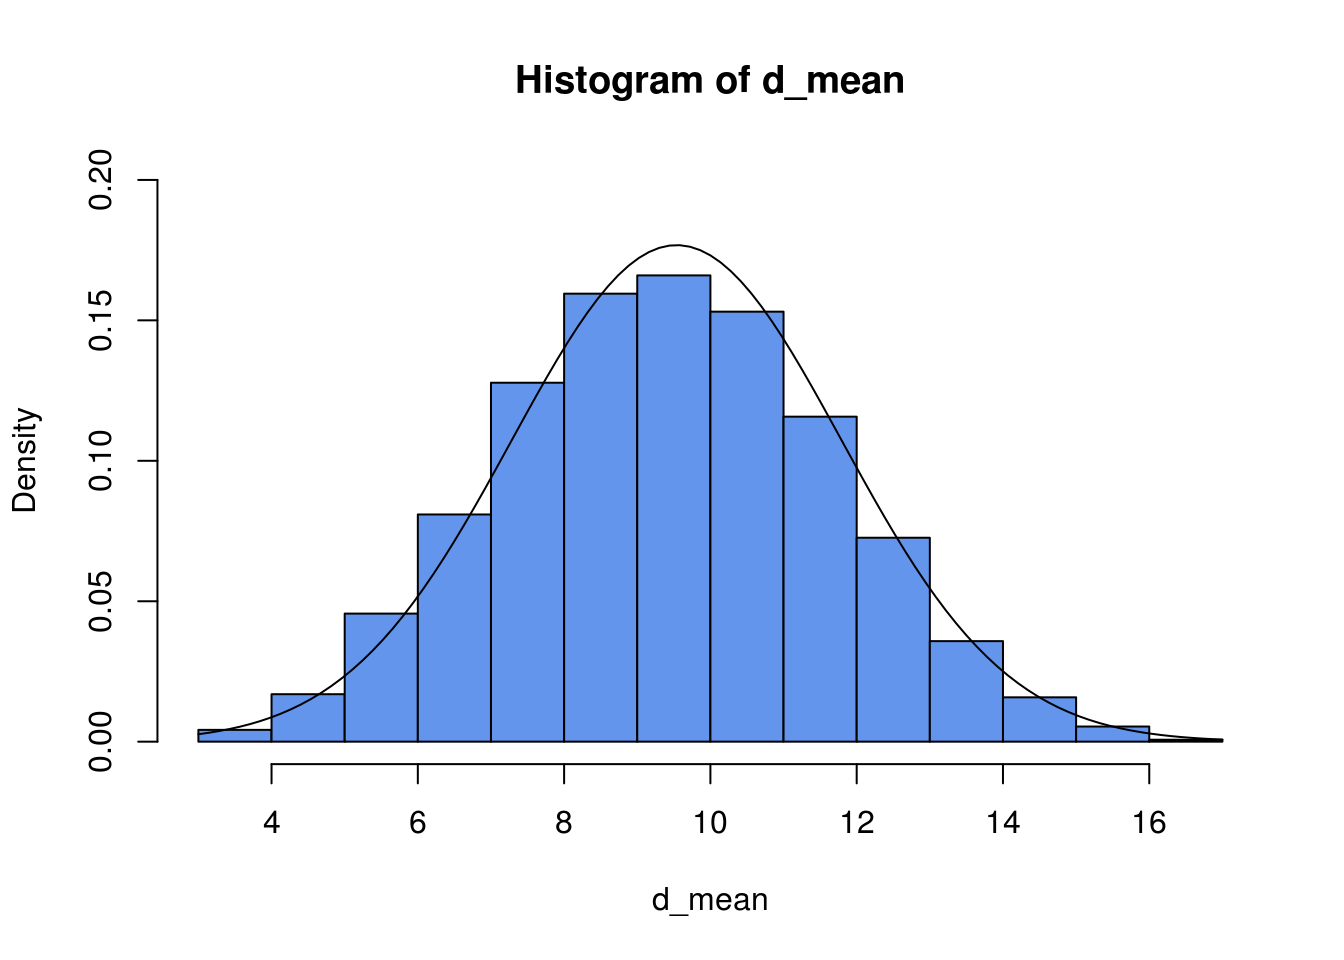
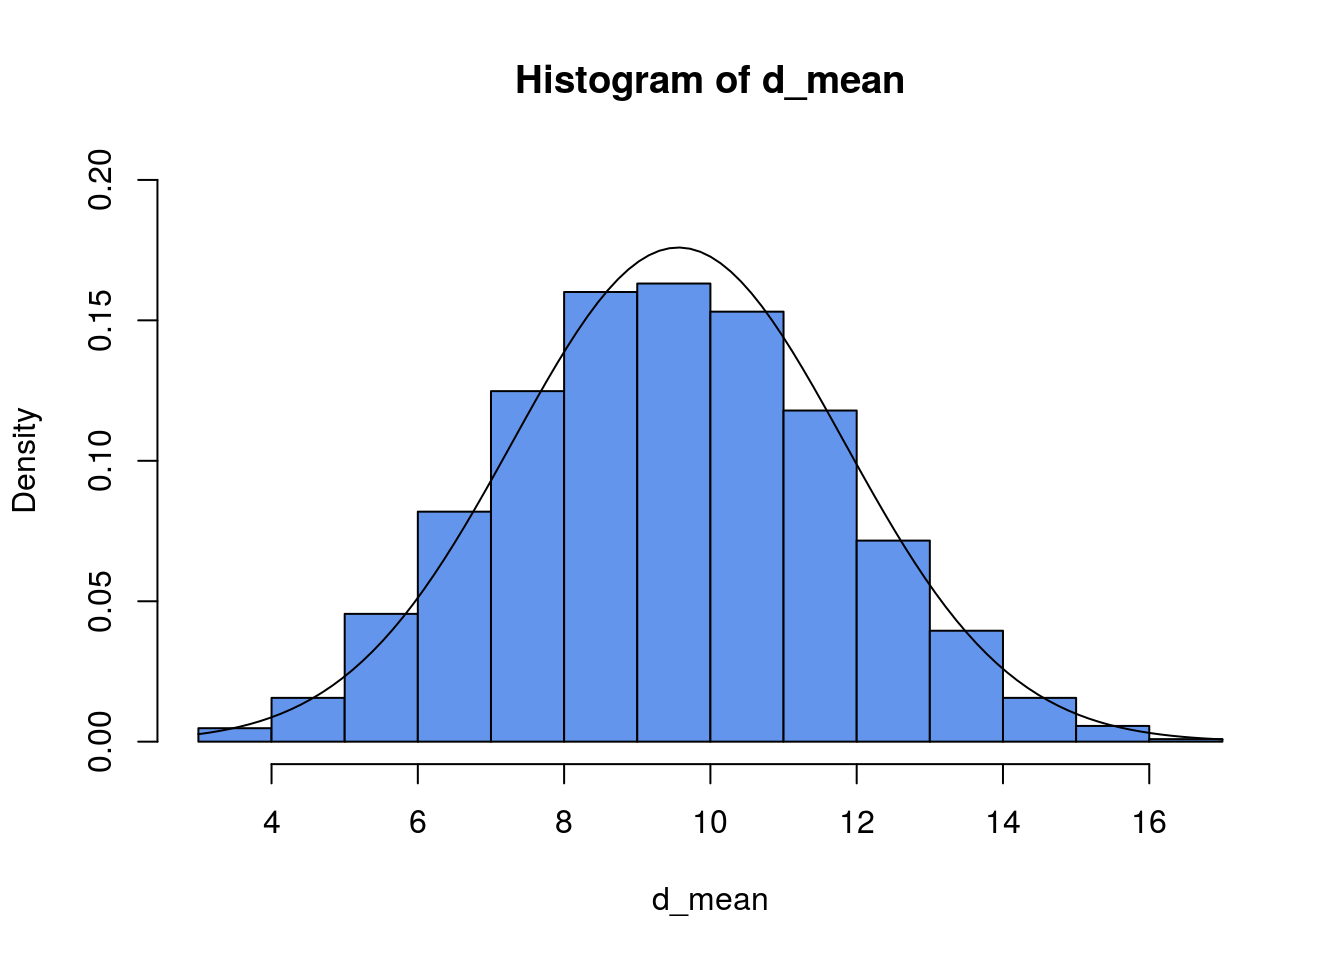
Go!

diff --git a/d_muestral.html b/d_muestral.html
@@ -334,16 +334,16 @@ for (i in 1:30){
   d_mean[i] &lt;- mean(sample(N,size = 4,replace = TRUE))
 }
 print(d_mean)</code></pre>
-<pre><code>##  [1] 11.00 12.00  9.75  7.75  7.00  5.75 13.25  8.75 10.00  8.75  8.75
-## [12]  9.50 10.00 12.25  8.00  9.75  9.75  9.50  6.75  4.50 11.25 10.75
-## [23] 10.75  9.00  6.75  8.00  9.75  7.75  6.50 10.75</code></pre>
+<pre><code>##  [1]  8.00 12.50  3.75  5.50 10.25  7.25  3.75  7.50  9.50 11.25  5.25
+## [12]  8.75  9.00 10.25  5.00  5.75  9.00  8.50 12.50 13.00  8.50 10.25
+## [23]  8.00  7.75  7.00 11.25 12.00 12.75  7.00 10.50</code></pre>
 </div>
 <div id="calculamos-las-medias-de-todas-esas-muestras-y-tratamos-de-ver-graficamente-mediante-un-histograma-al-menos-si-hay-acercamiento-a-normalidad." class="section level4">
 <h4>3) Calculamos las medias de todas esas muestras y tratamos de ver gráficamente mediante un histograma al menos si hay acercamiento a Normalidad.</h4>
 <pre class="r"><code>mean(d_mean)</code></pre>
-<pre><code>## [1] 9.133333</code></pre>
+<pre><code>## [1] 8.708333</code></pre>
 <pre class="r"><code>sd(d_mean)</code></pre>
-<pre><code>## [1] 2.005094</code></pre>
+<pre><code>## [1] 2.650702</code></pre>
 <pre class="r"><code>hist(d_mean,col = &quot;cornflowerblue&quot;,freq = F,ylim = c(0,0.2))
 curve(dnorm(x,mean(d_mean),sd(d_mean)),add=TRUE)</code></pre>
 <p><img src="d_muestral_files/figure-html/unnamed-chunk-3-1.png" width="672" /></p>
@@ -354,14 +354,14 @@ curve(dnorm(x,mean(d_mean),sd(d_mean)),add=TRUE)</code></pre>
 <div id="notar-que-la-media-de-las-medias-muestrales-es" class="section level4">
 <h4>1. Notar que la media de las medias muestrales es</h4>
 </div>
-<div id="mu_barx-9.13." class="section level4">
-<h4><span class="math inline">\(\mu_{\bar{X}}=\)</span> 9.13.</h4>
+<div id="mu_barx-8.71." class="section level4">
+<h4><span class="math inline">\(\mu_{\bar{X}}=\)</span> 8.71.</h4>
 </div>
 <div id="este-resultado-esta-bien-cerca-de-la-media-poblacional-pues-mu9.55" class="section level4">
 <h4>Este resultado está bien cerca de la media poblacional, pues <span class="math inline">\(\mu=9.55\)</span></h4>
 </div>
-<div id="la-desviacion-estandar-de-la-media-muestral-es-2.01-mientras-que" class="section level4">
-<h4>2. La desviación estándar de la media muestral es 2.01, mientras que</h4>
+<div id="la-desviacion-estandar-de-la-media-muestral-es-2.65-mientras-que" class="section level4">
+<h4>2. La desviación estándar de la media muestral es 2.65, mientras que</h4>
 </div>
 <div id="sigma_barxdfracsigmasqrtndfrac4.77sqrt42.4-." class="section level4">
 <h4><span class="math inline">\(\sigma_{\bar{X}}=\dfrac{\sigma}{\sqrt{n}}=\dfrac{4.77}{\sqrt{4}}=2.4\)</span> .</h4>
@@ -384,14 +384,14 @@ curve(dnorm(x,mean(d_mean),sd(d_mean)),add=TRUE)</code></pre>
 <p><img src="d_muestral_files/figure-html/unnamed-chunk-4-1.png" width="672" /></p>
 <p>Ahora, con un mayor número de muestras tenemos que:</p>
 </div>
-<div id="mu_barx-9.54." class="section level4">
-<h4><span class="math inline">\(\mu_{\bar{X}}=\)</span> 9.54.</h4>
+<div id="mu_barx-9.56." class="section level4">
+<h4><span class="math inline">\(\mu_{\bar{X}}=\)</span> 9.56.</h4>
 </div>
 <div id="este-resultado-esta-bien-cerca-de-la-media-poblacional-pues-mu9.55-1" class="section level4">
 <h4>Este resultado está bien cerca de la media poblacional, pues <span class="math inline">\(\mu=9.55\)</span></h4>
 </div>
-<div id="la-desviacion-estandar-de-la-media-muestral-es-2.26-comparado-con-sigma_barx2.38" class="section level4">
-<h4>2. La desviación estándar de la media muestral es 2.26, comparado con <span class="math inline">\(\sigma_{\bar{X}}=2.38\)</span></h4>
+<div id="la-desviacion-estandar-de-la-media-muestral-es-2.27-comparado-con-sigma_barx2.38" class="section level4">
+<h4>2. La desviación estándar de la media muestral es 2.27, comparado con <span class="math inline">\(\sigma_{\bar{X}}=2.38\)</span></h4>
 </div>
 </div>
 <div id="aplicaciones" class="section level3">
@@ -437,6 +437,35 @@ curve(dnorm(x,mean(d_mean),sd(d_mean)),add=TRUE)</code></pre>
 <li><h4 id="supongamos-que-el-ingreso-familiar-promedio-en-los-estados-unidos-es-de-51344-con-una-desviacion-estandar-de-15377.-cual-es-la-probabilidad-de-que-una-muestra-aleatoria-de-124-hogares-tenga-un-ingreso-familiar-promedio-de-mas-de-54000">Supongamos que el ingreso familiar promedio en los Estados Unidos es de <span class="math inline">\(\$51,344\)</span>, con una desviación estándar de <span class="math inline">\(\$15,377\)</span>. ¿Cuál es la probabilidad de que una muestra aleatoria de <span class="math inline">\(124\)</span> hogares tenga un ingreso familiar promedio de más de $ 54,000?</h4></li>
 </ol>
 </div>
+<div id="aqui-podemos-usar-el-tlc-para-aproximar-la-distribucion-del-promedio-de-ingresos-por-familia-en-eeuu.-entonces-como-n-geq-30-se-cumple-que" class="section level4">
+<h4>Aquí podemos usar el TLC para aproximar la distribución del promedio de ingresos por familia en EEUU. Entonces como <span class="math inline">\(n \geq 30\)</span>, se cumple que:</h4>
+</div>
+<div id="barx-sim-normalbig51344dfrac15377sqrt124big" class="section level4">
+<h4><span class="math display">\[\bar{X} \sim Normal\Big(51,344,\dfrac{15,377}{\sqrt{124}}\Big)\]</span></h4>
+</div>
+<div id="entonces-la-probabilidad-de-encontrar-un-ingreso-familiar-promedio-mayor-a-54000-esta-dada-por" class="section level4">
+<h4>Entonces, la probabilidad de encontrar un ingreso familiar promedio mayor a 54000 esta dada por:</h4>
+</div>
+<div id="pbarx-54000-1---pbarx-54000" class="section level4">
+<h4><span class="math display">\[P(\bar{X} &gt; 54000) = 1 - P(\bar{X} &lt;54,000)=\]</span></h4>
+</div>
+<div id="pbiggz-dfrac54000---51344frac15377sqrt124bigg" class="section level4">
+<h4><span class="math display">\[ 1 - P\Bigg(Z&lt; \dfrac{54,000 - 51,344}{\frac{15,377}{\sqrt{124}}}\Bigg)=\]</span></h4>
+</div>
+<div id="pz-1.9233" class="section level4">
+<h4><span class="math display">\[1 - P(Z&lt; 1.9233)=\]</span></h4>
+</div>
+<div id="buscamos-en-rstudio-la-probabilidad-pz1.9233" class="section level4">
+<h4>Buscamos en <code>RStudio</code> la probabilidad <span class="math inline">\(P(Z&lt;1.9233)\)</span></h4>
+<pre class="r"><code>pnorm(1.9233)</code></pre>
+<pre><code>## [1] 0.9727788</code></pre>
+</div>
+<div id="asi" class="section level4">
+<h4>Así,</h4>
+</div>
+<div id="pbarx-540001---pz-1.92331---0.9727-0.0273" class="section level4">
+<h4><span class="math display">\[P(\bar{X} &gt; 54000)=1 - P(Z&lt; 1.9233)=1 - 0.9727= 0.0273\]</span></h4>
+</div>
 </div>
 <div id="distribucion-de-la-proporcion-muestral" class="section level3">
 <h3>Distribución de la Proporción Muestral</h3>
@@ -479,7 +508,7 @@ curve(dnorm(x,mean(d_mean),sd(d_mean)),add=TRUE)</code></pre>
 <div id="sqrtdfracp1-pnsqrtdfrac0.401-0.402000.0346" class="section level4">
 <h4><span class="math inline">\(\sqrt{\dfrac{p(1-p)}{n}}=\sqrt{\dfrac{0.40(1-0.40)}{200}}=0.0346\)</span>,</h4>
 </div>
-<div id="asi" class="section level4">
+<div id="asi-1" class="section level4">
 <h4>Así,</h4>
 </div>
 <div id="pz-0.32pbigz-dfrac0.32---0.400.0346big" class="section level4">
